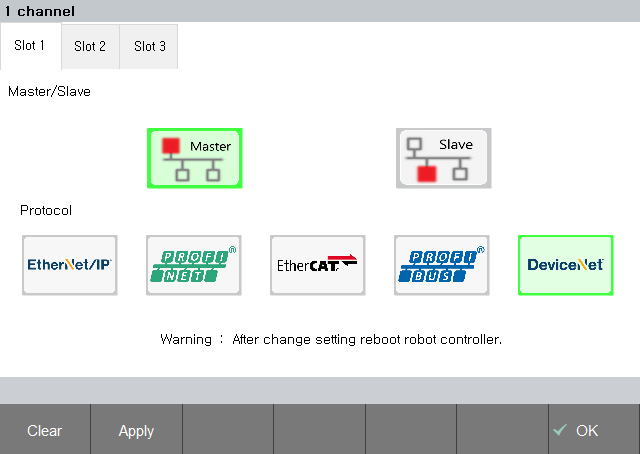
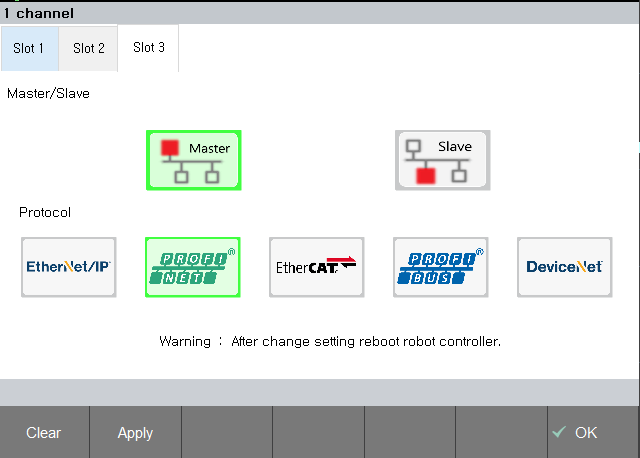
PROFINET IO Controller 설정 매뉴얼 추가 EtherNet/IP Scanner 설정 매뉴얼 부분 수정

diff --git a/3-settings-industrial-communication/3-4-PROFINET-IO/3-4-2-Settings-PROFINET-IO-Controller.md b/3-settings-industrial-communication/3-4-PROFINET-IO/3-4-2-Settings-PROFINET-IO-Controller.md
@@ -1,3 +1,217 @@
 # 3.4.2 PROFINET IO Controller 설정
 
-매뉴얼 준비중입니다.
+“[**3.1 산업용 통신 펌웨어 설정**](../../3-settings-industrial-communication/3-1-Settings-firmware.md)" 및 "[**3.2 SYCON.NET 설정**](../../3-settings-industrial-communication/3-2-Settings-SYCON.md)" 절차를 따라 설정 이후 아래 방법을 진행해 주십시오.
+
+
+<br>
+
+##### 1. 산업용 통신 펌웨어 설정에서 PROFINET IO Master를 선택하고 로봇 제어기를 재부팅합니다.
+
+![[그림 3.4.2-1 펌웨어 설정]](<../../_assets/3-Settings-Industrial-Communication/3.4-PROFINET-IO/2-Master_setting/image_1.png>) 
+
+<br>
+
+##### 2. 산업용 통신 모니터링에서 선택한 Protocol의 준비 상태를 확인합니다.
+
+![[그림 3.4.2-2 산업용 통신 모니터링]](<../../_assets/3-Settings-Industrial-Communication/3.4-PROFINET-IO/2-Master_setting/image_2.png>) 
+
+<br>
+
+##### 3. Sycon.net 을 이용하여 PROFINET IO Controller PCI 장치를 선택합니다.
+
+![[그림 3.4.2-3 PROFINET IO Master PCI]](<../../_assets/3-Settings-Industrial-Communication/3.4-PROFINET-IO/2-Master_setting/image_3.png>)
+![[그림 3.4.2-4 PROFINET IO Master PCI]](<../../_assets/3-Settings-Industrial-Communication/3.4-PROFINET-IO/2-Master_setting/image_4.png>) 
+
+<br>
+
+##### 4. PCI 장치를 Scan 하고 PROFINET IO Controller 적용(Apply)합니다.
+
+![[그림 3.4.2-5 Sycon.net Scan]](<../../_assets/3-Settings-Industrial-Communication/3.4-PROFINET-IO/2-Master_setting/image_5.png>) 
+
+<br>
+
+##### 5. 설정을 다운로드 합니다.
+
+![[그림 3.4.2-6 PROFINET IO Controller Download]](<../../_assets/3-Settings-Industrial-Communication/3.4-PROFINET-IO/2-Master_setting/image_6.png>) 
+
+<br>
+
+##### 6. PROFINET IO Controller 에 연결할 Device(Slave) 모듈을 준비합니다.
+   * 이번 예제에서는 Crevis 사의 M9287 PROFINET IO Device를 사용합니다.
+   * 시스템 전원과 필드 전원을 공급해 주어 모듈을 활성화 시켜 주십시오.
+
+![[그림 3.4.2-7 Crevis M9287]](<../../_assets/3-Settings-Industrial-Communication/3.4-PROFINET-IO/2-Master_setting/image_7.png>) 
+
+<br>
+
+{% hint style="info" %}
+\.      DIP Switch 을 이용한 PROFINET IO Device 이름 설정 방법
+
+\.      M9287-XX : Dip Switch 로 설정한 번호
+
+\.      이번 예제에서는 1번 Dip Switch를 이용해 이름을 M9287-01 로 설정하였습니다.
+{% endhint %}
+
+<br>
+
+##### 8. (Dip Switch 예제) DIP Switch를 이용하여 Slave 장치의 이름을 설정합니다.
+   * 1번 DIP Switch만 ON으로 변경합니다.
+
+
+![[그림 3.4.2-8 Crevis M9287 Dip Swicth]](<../../_assets/3-Settings-Industrial-Communication/3.4-PROFINET-IO/2-Master_setting/image_8.png>)
+
+{% hint style="info" %}
+\.      DIP Switch 설정 후 장치를 재부팅 해주십시오.
+{% endhint %}
+
+<br>
+
+##### 9. Slave 장치의 GSDML 파일을 등록합니다.
+
+{% hint style="info" %}
+\.      Sycon.net에 등록되지 않은 Device를 사용하기 위해 GSDML 파일이 필요합니다.
+
+\.      M9287 Device의 GSDML 파일은 Crevis 홈페이지에서 다운로드 할 수 있습니다.
+{% endhint %}
+
+![[그림 3.4.2-9 Crevis GSDML File]](<../../_assets/3-Settings-Industrial-Communication/3.4-PROFINET-IO/2-Master_setting/image_9.png>)
+
+{% hint style="info" %}
+\.      다운로드한 GSDML 파일을 Sycon.net 에 등록합니다.
+
+\.      GSDML File 등록시 산업용 통신 Protocol (PROFINET IO)를 확인해 주십시오.
+{% endhint %}
+
+![[그림 3.4.2-10 Crevis GSDML File]](<../../_assets/3-Settings-Industrial-Communication/3.4-PROFINET-IO/2-Master_setting/image_10.png>)![[그림 3.4.2-11 Crevis GSDML File]](<../../_assets/3-Settings-Industrial-Communication/3.4-PROFINET-IO/2-Master_setting/image_11.png>)
+![[그림 3.4.2-12 Crevis GSDML File]](<../../_assets/3-Settings-Industrial-Communication/3.4-PROFINET-IO/2-Master_setting/image_12.png>)
+
+![[그림 3.4.2-13 Crevis GSDML File]](<../../_assets/3-Settings-Industrial-Communication/3.4-PROFINET-IO/2-Master_setting/image_13.png>)
+
+
+<br>
+
+##### 10. Network Scan
+
+{% hint style="info" %}
+\.      PROFINET IO Controller 는 Network Scan 기능을 지원합니다.
+{% endhint %}
+
+{% hint style="info" %}
+\.      PROFINET IO Master 장치에서 우클릭 후 Network Scan을 클릭합니다.
+{% endhint %}
+
+![[그림 3.4.2-14 Network Scan]](<../../_assets/3-Settings-Industrial-Communication/3.4-PROFINET-IO/2-Master_setting/image_14.png>)
+
+{% hint style="warning" %}
+\.      GSDML 파일이 등록되지 않은 경우 Network Scan을 하면 Slave 정보는 나타나지만 등록은 불가능합니다.
+{% endhint %}
+
+![[그림 3.4.2-15 Network Scan]](<../../_assets/3-Settings-Industrial-Communication/3.4-PROFINET-IO/2-Master_setting/image_15.png>)
+
+{% hint style="info" %}
+\.      정상적으로 GSDML 파일이 등록된 경우 Network Scan을 통해 Slave 장치를 추가할 수 있습니다.
+{% endhint %}
+
+![[그림 3.4.2-16 Network Scan]](<../../_assets/3-Settings-Industrial-Communication/3.4-PROFINET-IO/2-Master_setting/image_16.png>)
+
+![[그림 3.4.2-17 Network Scan]](<../../_assets/3-Settings-Industrial-Communication/3.4-PROFINET-IO/2-Master_setting/image_17.png>)
+
+![[그림 3.4.2-18 Network Scan]](<../../_assets/3-Settings-Industrial-Communication/3.4-PROFINET-IO/2-Master_setting/image_18.png>)
+
+<br>
+
+##### 11. Slave(Device) 장치 Configuration
+
+{% hint style="info" %}
+\.      Slave 장치 Configuration을 위해 Master 장치의 Disconnect를 클릭합니다.
+{% endhint %}
+
+![[그림 3.4.2-19 Slave Configuration]](<../../_assets/3-Settings-Industrial-Communication/3.4-PROFINET-IO/2-Master_setting/image_19.png>)
+
+{% hint style="info" %}
+\.      Slave 장치를 더블클릭합니다.
+{% endhint %}
+
+![[그림 3.4.2-20 Slave Configuration]](<../../_assets/3-Settings-Industrial-Communication/3.4-PROFINET-IO/2-Master_setting/image_20.png>)
+
+{% hint style="info" %}
+\.      PROFINET IO Slave(Device) 설정을 위해 M9287에 연결되어 있는 Slot을 추가합니다.
+
+\.      Slot 1 : M7001
+\.      Slot 2 : M12DF
+\.      Slot 3 : M225F
+{% endhint %}
+
+![[그림 3.4.2-21 Slave Configuration]](<../../_assets/3-Settings-Industrial-Communication/3.4-PROFINET-IO/2-Master_setting/image_21.png>)
+
+![[그림 3.4.2-22 Slave Configuration]](<../../_assets/3-Settings-Industrial-Communication/3.4-PROFINET-IO/2-Master_setting/image_22.png>)
+
+<br>
+
+##### 12. Master(Controller) 장치 Configuration
+
+{% hint style="info" %}
+\.      Master 장치를 더블클릭합니다.
+{% endhint %}
+
+![[그림 3.4.2-23 Master Configuration]](<../../_assets/3-Settings-Industrial-Communication/3.4-PROFINET-IO/2-Master_setting/image_23.png>)
+
+{% hint style="info" %}
+\.      Master 장치와 Slave 장치의 IP 주소를 설정해줍니다.
+
+\.      PROFINET IO Device의 Slave IP 주소는 Master 에서 설정합니다.
+
+\.      IP 주소는 Master와 Slave가 같은 대역안에서 서로 중복되지 않도록 해주십시오.
+{% endhint %}
+
+![[그림 3.4.2-24 Master Configuration]](<../../_assets/3-Settings-Industrial-Communication/3.4-PROFINET-IO/2-Master_setting/image_24.png>)
+
+![[그림 3.4.2-25 Master Configuration]](<../../_assets/3-Settings-Industrial-Communication/3.4-PROFINET-IO/2-Master_setting/image_25.png>)
+
+{% hint style="info" %}
+\.      Master 장치에서 Slave 장치의 Slot 정보가 올바른지 확인해주십시오.
+{% endhint %}
+
+![[그림 3.4.2-26 Master Configuration]](<../../_assets/3-Settings-Industrial-Communication/3.4-PROFINET-IO/2-Master_setting/image_26.png>)
+
+{% hint style="info" %}
+\.      Address Table에서 각 Slave Slot의 할당된 IO 및 시작 주소를 확인 합니다.
+{% endhint %}
+
+![[그림 3.4.2-27 Master Configuration]](<../../_assets/3-Settings-Industrial-Communication/3.4-PROFINET-IO/2-Master_setting/image_27.png>)
+
+{% hint style="info" %}
+\.      PROFINET IO의 IO 통신속도를 설정합니다.
+{% endhint %}
+
+![[그림 3.4.2-28 Master Configuration]](<../../_assets/3-Settings-Industrial-Communication/3.4-PROFINET-IO/2-Master_setting/image_28.png>)
+
+{% hint style="info" %}
+\.      설정을 완료 후 Download를 진행해 주십시오.
+{% endhint %}
+
+![[그림 3.4.2-29 Master Configuration]](<../../_assets/3-Settings-Industrial-Communication/3.4-PROFINET-IO/2-Master_setting/image_29.png>)
+
+<br>
+
+##### 13. 통신 상태 확인
+
+{% hint style="info" %}
+\.        Sycon.net 과 TP 에서 통신 상태를 확인 합니다.
+
+\.        TP 에서 산업용 통신 상태를 확인하는 절차는 (“[**3.4 산업용 통신 모니터링**](/4-monitoring-industrial-communication/README.md)”참고해 주십시오.
+{% endhint %}
+
+{% hint style="info" %}
+\.      Connected 된 Master 장치를 더블클릭하여 통신 상태를 확인 할 수 있습니다.
+{% endhint %}
+
+![[그림 3.4.2-30 Status Diagnosis]](<../../_assets/3-Settings-Industrial-Communication/3.4-PROFINET-IO/2-Master_setting/image_30.png>)
+
+![[그림 3.4.2-31 Status Diagnosis]](<../../_assets/3-Settings-Industrial-Communication/3.4-PROFINET-IO/2-Master_setting/image_31.png>)
+
+{% hint style="info" %}
+\.        Sycon.net 의 Diagnosis 기능을 이용하여 통신 상태와 함게 IO 입출력 상태를 모니터링 할 수 있습니다.
+{% endhint %}
+
+![[그림 3.4.2-32 Status Diagnosis]](<../../_assets/3-Settings-Industrial-Communication/3.4-PROFINET-IO/2-Master_setting/image_32.png>)

diff --git a/3-settings-industrial-communication/3-3-EtherNet-IP/3-3-2-Settings-EtherNet-IP-Scanner.md b/3-settings-industrial-communication/3-3-EtherNet-IP/3-3-2-Settings-EtherNet-IP-Scanner.md
@@ -106,7 +106,7 @@
 
 <br>
 
-##### 13. Adapter의 IP 설정 후 Sycon.net 에서 Configuration을 진행합니다.
+##### 13. Slave 장치의 EDS 파일을 등록합니다.
 
 {% hint style="info" %}
 \.      Sycon.net에 등록되지 않은 Device를 사용하기 위해 EDS 파일이 필요합니다.
@@ -126,6 +126,18 @@
 ![[그림 3.3.2-21 Crevis EDS File]](<../../_assets/3-Settings-Industrial-Communication/3.3-EtherNet-IP/2-Master_setting/image_21.png>)
 
 ![[그림 3.3.2-22 Crevis EDS File]](<../../_assets/3-Settings-Industrial-Communication/3.3-EtherNet-IP/2-Master_setting/image_22.png>)
+
+<br>
+
+##### 14. Network Scan
+
+{% hint style="info" %}
+\.      EtherNet/IP Scanner 는 Network Scan 기능을 지원하지 않습니다.
+{% endhint %}
+
+<br>
+
+##### 15. Slave(Adapter) 장치 Configuration
 
 {% hint style="info" %}
 \.      동록한 Device를 끌어와 EtherNet/IP Master 버스 라인에 올려 놓습니다.
@@ -161,7 +173,7 @@
 
 <br>
 
-##### 14. Master(Scanner) 장치의 Configuration을 진행합니다.
+##### 16. Master(Scanner) 장치 Configuration
     
 
 {% hint style="info" %}
@@ -206,10 +218,18 @@
 
 ![[그림 3.3.2-31 Scanner Device Settings]](<../../_assets/3-Settings-Industrial-Communication/3.3-EtherNet-IP/2-Master_setting/image_31.png>)
 
+<br>
+
+##### 17. 통신 상태 확인
+
 {% hint style="info" %}
 \.        Sycon.net 과 TP 에서 통신 상태를 확인 합니다.
 
 \.        TP 에서 산업용 통신 상태를 확인하는 절차는 (“[**3.4 산업용 통신 모니터링**](/4-monitoring-industrial-communication/README.md)”참고해 주십시오.
+{% endhint %}
+
+{% hint style="info" %}
+\.      Connected 된 Master 장치를 더블클릭하여 통신 상태를 확인 할 수 있습니다.
 {% endhint %}
 
 ![[그림 3.3.2-32 Communication State]](<../../_assets/3-Settings-Industrial-Communication/3.3-EtherNet-IP/2-Master_setting/image_32.png>)
